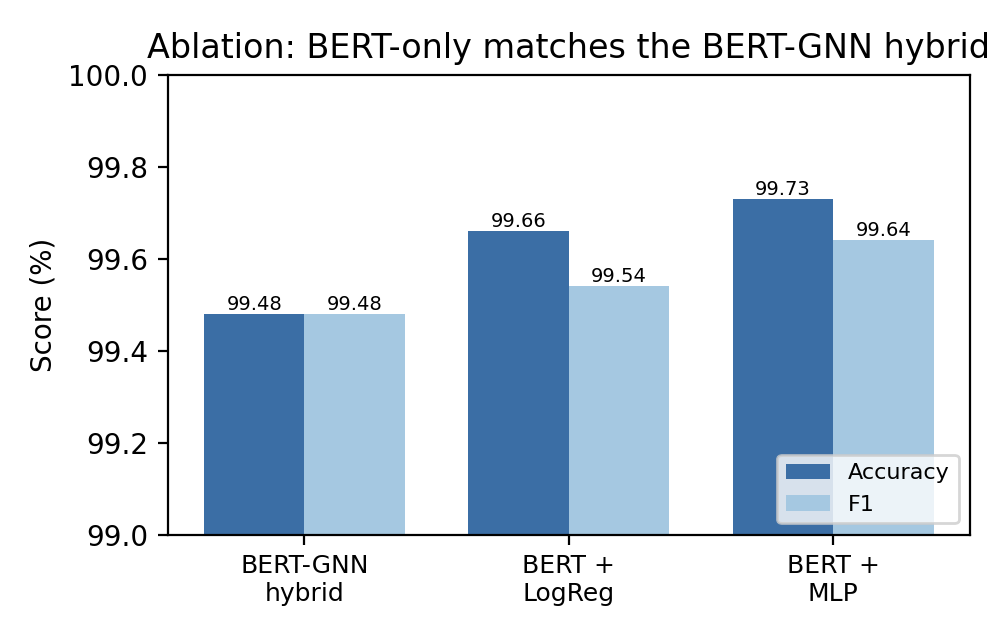
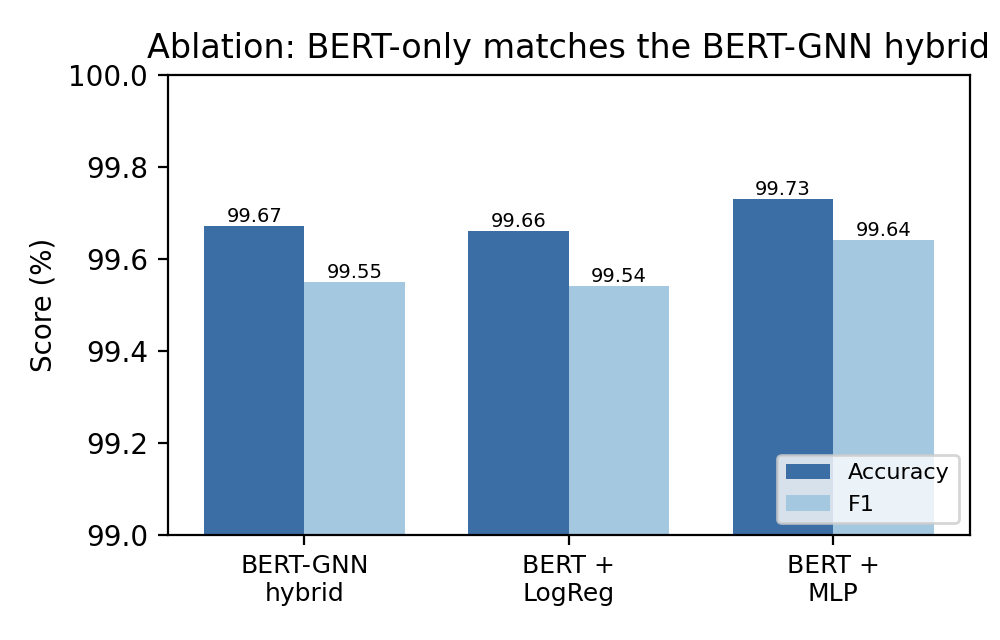
Align result figures with the held-out BERT-GNN and note it in the README
- Update regenerated figures to the held-out/bidirectional model:
  contrib_ablation (hybrid 99.67 / 99.55 attack-class F1), bert_only_pr,
  bert_only_roc
- README headline table now notes the held-out BERT-GNN result (99.67%),
  consistent with RESULTS.md and the revised paper

Changed region(s): [[0.186, 0.3125, 0.403, 0.5]]

diff --git a/README.md b/README.md
@@ -28,7 +28,7 @@ Plus the dataset used to train and evaluate both pipelines:
 | Pipeline | Accuracy | Adversarial accuracy (FGSM) | Notes |
 |---|---|---|---|
 | **DistilBERT-Stacked Ensemble** | **99.81%** | **99.77%** | Selected recommended approach; fast execution time |
-| **BERT-GNN** | **99.48%** | — | Superior structural understanding; longer execution time (23.13 s) |
+| **BERT-GNN** | **99.48%** (99.67% held-out) | — | Superior structural understanding; longer execution time (23.13 s); held-out-validation retrain reaches 99.67%, see [`RESULTS.md`](RESULTS.md) |
 | Best conventional baseline (Random Forest) | 94.47% | — | Benchmarked in the same study |
 
 All four performance metrics (accuracy, precision, recall, F1-score) hit the same headline figure for both Hybrid pipelines. Full per-model tables, confusion matrices, ROC curves, learning curves and sensitivity analyses are in the notebooks and in the dissertation.
